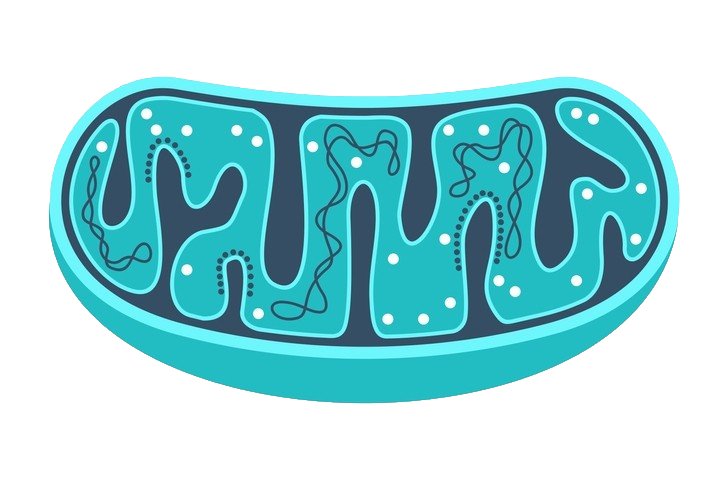
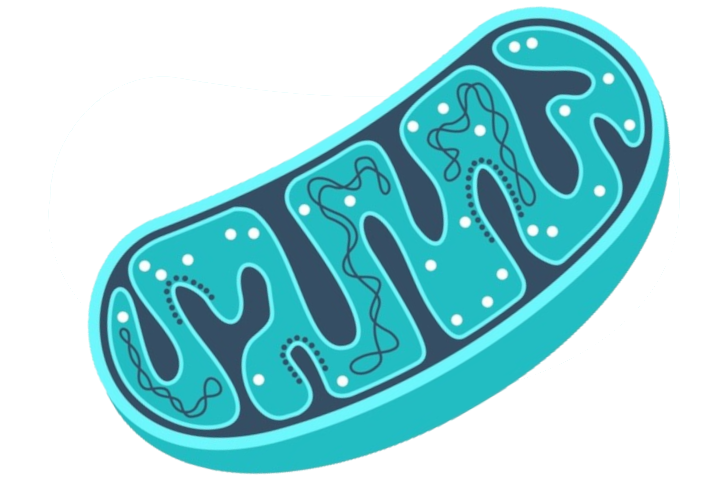
Update header positioning

diff --git a/style.css b/style.css
@@ -13,7 +13,6 @@
     --header-bg-clr: #000c2c;
     --hamburger-bg-clr: #00185c;
     --blue-text-clr: #00cfcf;
-    -asd: #0061cf;
     --red-text-clr: #ff595a;
     --white-text-clr: white;
     --thin-text: 300;
@@ -191,18 +190,18 @@ nav>ul>li {
 }
 
 /* ############### Main content ###############*/
-#main-section {
+#header-section {
   background-color: var(--header-bg-clr);
   width: 100%;
 }
 
-#main-section h2 {
+#header-section h2 {
   color: var(--white-text-clr);
   margin-bottom: 30px;
   font-size: 3rem;
 }
 
-#main-section .btn-get-started {
+#header-section .btn-get-started {
   color: var(--red-text-clr);
   border-radius: 50px;
   padding: 8px 35px 10px 35px;
@@ -210,39 +209,46 @@ nav>ul>li {
   transition: all ease-in-out 0.3s;
   display: inline-block;
   background: var(--header-bg-clr);
+  margin-top: 30px;
 }
 
-#main-section .btn-get-started:hover {
+#header-section .btn-get-started:hover {
   background-color: var(--red-text-clr); 
   color: var(--header-bg-clr);
   border: 2px solid transparent;
 }
 
-#main-section .container .main-section-content {
-  display: flex;
-  align-items: center;
-  margin-left: -10%;
-  margin-right: auto;
-}
-
-#main-section .container .main-section-content .main-section-content-text {
-  min-width: 400px;
-}
-
-.mitochondrium-img {
-  width: 500px;
-  height: 300px;
-  transform: rotate(-30deg);
-}
-
-.container {
+#header-section .container {
   margin-top: 5rem;
   margin-left: auto;
   margin-right: auto;
+  width: 70%;
 }
 
+#header-section .container .header-section-content {
+  display: flex;
+  align-items: center;
+  margin-right: auto;
+  width: 100%;
+}
+
+#header-section .container .header-section-content .header-section-content-text {
+  min-width: 600px;
+}
+
+.mitochondrium {
+  width: 100%;
+}
+
+.mitochondrium img {
+  width: 500px;
+  height: 300px;
+}
+
+
+
 /* ############### Media queries ###############*/
-@media (max-width: 768px) {
+/* @media (max-width: 768px) {
   .mitochondrium-img {
     width: 250px;
     height: 150px;
@@ -250,27 +256,27 @@ nav>ul>li {
 }
 
 @media (max-width: 991px) {
-  #main-section .mitochondrium-img {
+  #header-section .mitochondrium-img {
     text-align: center;
   }
 
-  #main-section .mitochondrium-img img {
+  #header-section .mitochondrium-img img {
     width: 50%;
   }
-}
+} */
 
 @media (max-width: 768px) {
-  #main-section {
+  #header-section {
     -moz-text-align-last: center;
     text-align-last: center;
   }
 
-  #main-section h1 {
+  #header-section h1 {
     font-size: 28px;
     line-height: 36px;
   }
 
-  #main-section h2 {
+  #header-section h2 {
     font-size: 18px;
     line-height: 24px;
     margin-bottom: 30px;
@@ -279,7 +285,7 @@ nav>ul>li {
 }
 
 
-@media (min-width: 1400px) {
+/* @media (min-width: 1400px) {
   .container {
     max-width: 1320px;
   }
@@ -294,5 +300,4 @@ nav>ul>li {
 @media (min-width: 768px) {
   .container {
     max-width: 720px;
-  }
-}
+  } */

diff --git a/index.html b/index.html
@@ -39,23 +39,23 @@
             <span class="bar"></span>
         </div>
     </nav>
-    <section id="main-section">
+    <section id="header-section">
       <div class="container">
-        <div class="main-section-content">
-          <div class="main-section-content-text">
+        <div class="header-section-content">
+          <div class="header-section-content-text">
             <h2>Your new digital experience with Bocor</h2>
             <h3>We are team of talented designers making websites with Bootstrap</h3>
             <a href="#about" class="btn-get-started scrollto">Get Started</a>
           </div>
-          <div class="mitochondrium-div">
-            <img class="mitochondrium-img" src="images/mitochondrium.png" alt="Mitochondrium">
+          <div class="mitochondrium">
+            <img src="images/mitochondrium.png" alt="Mitochondrium">
           </div>
         </div>
       </div>
     </section>
-    
   </header>
-  <svg viewBox="0 0 500 200">
+  <!-- Waves -->
+  <svg viewBox="0 0 500 100">
     <path d="M 0 50 C 150 150 300 0 500 80 L 500 0 L 0 0" fill="#00cfcf" opacity="1"></path>
     <path d="M 0 50 C 150 150 330 -30 500 50 L 500 0 L 0 0" fill="#0061cf" opacity="1"></path>
    <path d="M 0 30 C 215 150 250 -50 500 60 L 500 0 L 0 0" fill="#000c2c" opacity="1"></path>
